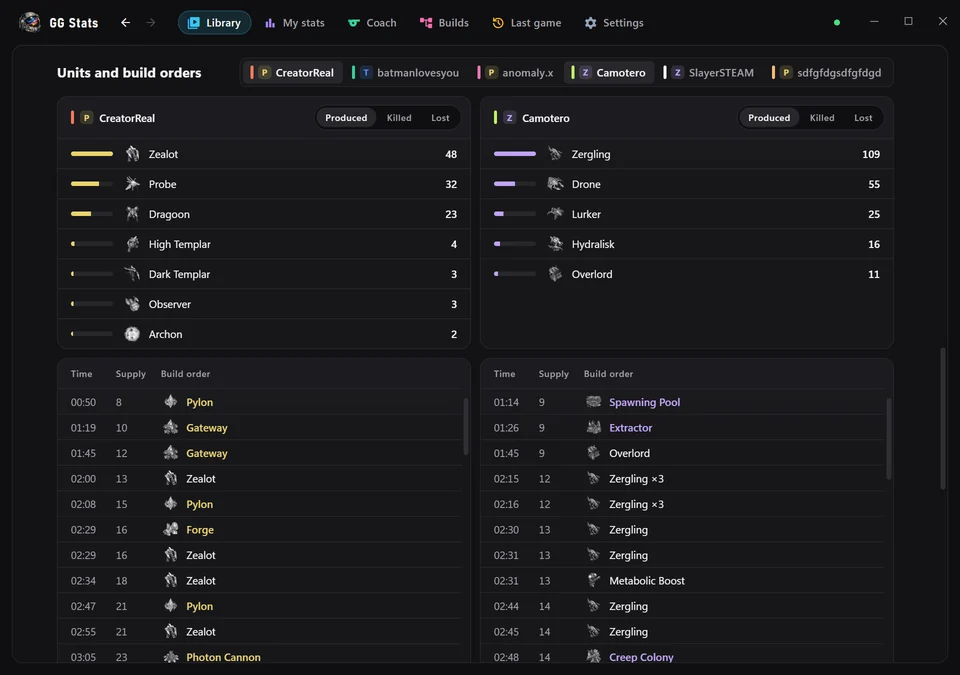
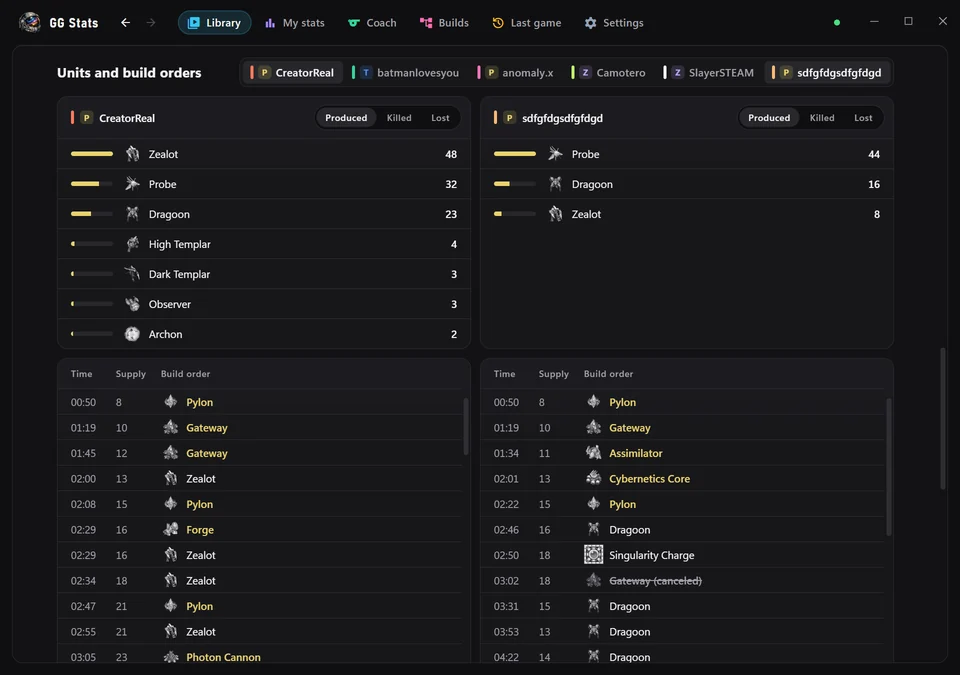
Show two Protoss build orders and the updated coach on the site.

diff --git a/site/index.html b/site/index.html
@@ -445,7 +445,7 @@
           fetchpriority="low"
           decoding="async"
           aria-hidden="true"
-          alt="The units two players made, side by side, above their build orders with times and supply." />
+          alt="Two Protoss players side by side: the units each made, above their build orders with times and supply." />
         <img
           src="shots/mystats.webp"
           srcset="shots/mystats-960.webp 960w, shots/mystats.webp 1920w"
